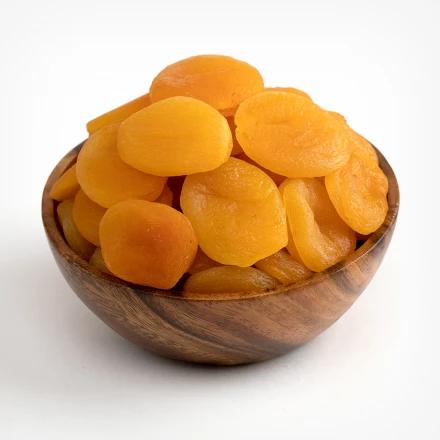
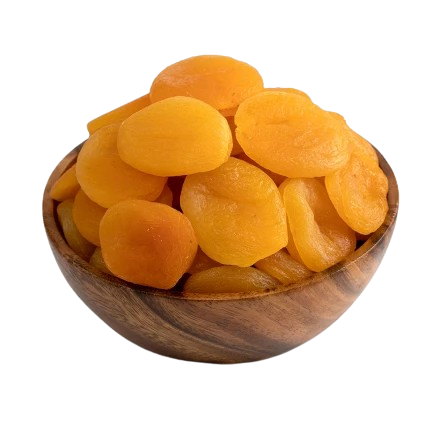
wotk

diff --git a/src/translations.js b/src/translations.js
@@ -32,26 +32,22 @@ export const translations = {
     badge2: "مشمس",
     badge3: "صندوق 12.5 كغ",
     productTitles: [
-      // "عنب أصفر",
-      // "جوز",
-      // "فول سوداني",
-      // "فاصوليا",
-      // "فاصوليا حمراء",
-      // "ماش",
-      // "برقوق مجفف",
-      // "فاصوليا",
-      // "حبة البركة",
-      "حبة البركة",
-      "حبة البركة",
-      "حبة البركة",
+      "زبيب أصفر",
+      "زبيب مشكل",
+      "زبيب أسود",
       "نوى المشمش",
-      "قمر الدين",
-      'مشمش مجفف',
-      'مشمش مجفف أصفر',
-      'مشمش مجفف أحمر',
-      'مشمش مجفف كبير',
-      'مشمش مجفف داكن',
-      'مشمش مجفف داكن'
+      "زبيب ذهبي",
+      "زبيب أسود كبير",
+      "حبة البركة",
+      "حبة البركة",
+      "مشمش مجفف كبير",
+      "مشمش مجفف أصفر",
+      "مشمش مجفف داكن",
+      "مشمش مجفف فاتح",
+      "قمر الدين (مشمش مجفف بالنواة)",
+      "مشمش مجفف بالنواة",
+      "مشمش مجفف أسود",
+      "مشمش مجفف أسود",
     ],
 
     // 🔥 Qo‘shimcha tarjimalar
@@ -112,26 +108,22 @@ export const translations = {
     badge2: "Sunny",
     badge3: "Box 12.5 kg",
     productTitles: [
-      // "Yellow grapes",
-      // "Walnut",
-      // "Peanut",
-      // "Bean",
-      // "Red bean",
-      // "Mung bean",
-      // "Dried plum",
-      // "Bean",
-      // "Black cumin",
-      "Black cumin",
-      "Black cumin",
-      "Black cumin",
+      "Yellow raisins",
+      "Mixed raisins",
+      "Black raisins",
       "Apricot kernels",
-      "Dried apricot",
-      'Dried apricot',
-      'Yellow dried apricot',
-      'Red dried apricot',
-      'Large dried apricot',
-      'Yellow dried apricot',
-      'Dark dried apricot',
+      "Golden raisins",
+      "Large black raisins",
+      "Black cumin",
+      "Black cumin",
+      "Large dried apricot",
+      "Yellow dried apricot",
+      "Dark dried apricot",
+      "Light dried apricot",
+      "Uryuk (dried apricot with pit)",
+      "Dried uryuk",
+      "Black dried apricot",
+      "Black dried apricot",
     ],
 
     // 🔥 Extra
@@ -193,26 +185,22 @@ export const translations = {
     badge2: "Quyoshli",
     badge3: "12,5 kg quti",
     productTitles: [
-      // "Sariq uzum",
-      // "Yong‘oq",
-      // "Yer yong‘oq",
-      // "Fasol",
-      // "Qizil fasol",
-      // "Mash",
-      // "Quritilgan olxo‘ri",
-      // "Fasol",
-      // "Qora sedana",
-      "Qora sedana",
-      "Qora sedana",
-      "Qora sedana",
+      "Sariq mayiz",
+      "Aralash mayiz",
+      "Qora mayiz",
       "O‘rik danagi",
-      "Quritilgan o‘rik",
-      'Quritilgan o‘rik',
-      'Sariq quritilgan o‘rik',
-      'Qizil quritilgan o‘rik',
-      'Yirik quritilgan o‘rik',
-      'Sariq quritilgan o‘rik',
-      'Qoraygan quritilgan o‘rik',
+      "Oltin mayiz",
+      "Yirik qora mayiz",
+      "Qora sedana",
+      "Qora sedana",
+      "Yirik quritilgan o‘rik",
+      "Sariq quritilgan o‘rik",
+      "To‘q rangli quritilgan o‘rik",
+      "Och rangli quritilgan o‘rik",
+      "Uryuk (danakli o‘rik)",
+      "Quritilgan uryuk",
+      "Qora quritilgan o‘rik",
+      "Qora quritilgan o‘rik",
     ],
 
     // 🔥 Extra
@@ -274,26 +262,22 @@ export const translations = {
     badge2: "Солнечная",
     badge3: "Коробка 12,5 кг",
     productTitles: [
-      // "Жёлтый виноград",
-      // "Грецкий орех",
-      // "Арахис",
-      // "Фасоль",
-      // "Красная фасоль",
-      // "Маш",
-      // "Сушёная слива",
-      // "Фасоль",
-      // "Чёрный тмин",
+      "Изюм жёлтый",
+      "Изюм микс",
+      "Изюм чёрный",
+      "Косточки абрикоса",
+      "Изюм золотистый",
+      "Изюм чёрный крупный",
       "Чёрный тмин",
       "Чёрный тмин",
-      "Чёрный тмин",
-      "Абрикосовые косточки",
-      "Курага",
-      'Сушёный абрикос',
-      'Жёлтый сушёный абрикос',
-      'Красный сушёный абрикос',
-      'Крупный сушёный абрикос',
-      'Жёлтый сушёный абрикос',
-      'Тёмный сушёный абрикос',
+      "Курага крупная",
+      "Курага жёлтая",
+      "Курага тёмная",
+      "Курага светлая",
+      "Урюк",
+      "Урюк сушёный",
+      "Курага чёрная",
+      "Курага чёрная",
     ],
 
     // 🔥 Extra

diff --git a/src/App.jsx b/src/App.jsx
@@ -9,26 +9,22 @@ import { BsArrowUpRight, BsBoxFill } from "react-icons/bs";
 
 
 const images = [
-  { img: "/img/arr1.jpg", title: "Жёлтый виноград" },
-  { img: "/img/arr2.jfif", title: "Грецкий орех" },
-  { img: "/img/arr3.jfif", title: "Арахис" },
-  { img: "/img/arr4.jfif", title: "Фасоль" },
-  { img: "/img/arr5.jfif", title: "Красная фасоль" },
-  // { img: "/img/arr6.png", title: "Маш" },
-  // { img: "/img/arr7.png", title: "Сушёная слива" },
-  // { img: "/img/arr8.png", title: "Фасоль" },
-  // { img: "/img/arr9.png", title: "Чёрный тмин" },
-  { img: "/img/arr10.png", title: "Чёрный тмин" },
+  { img: "/img/arr1.png", title: "Изюм жёлтый" },
+  { img: "/img/arr2.png", title: "Изюм микс" },
+  { img: "/img/arr3.png", title: "Изюм чёрный" },
+  { img: "/img/arr4.png", title: "Косточки абрикоса" },
+  { img: "/img/arr5.png", title: "Изюм золотистый" },
+  { img: "/img/arr10.png", title: "Изюм чёрный крупный" },
   { img: "/img/arr11.png", title: "Чёрный тмин" },
   { img: "/img/arr12.png", title: "Чёрный тмин" },
-  { img: "/img/arr15.png", title: "Абрикосовые косточки" },
-  { img: "/img/arr16.png", title: "Сушёный абрикос" },
-  { img: "/img/arr17.jpg", title: "Красный сушёный абрикос" },
-  { img: "/img/arr18.jpg", title: "Жёлтый сушёный абрикос" },
-  { img: "/img/arr19.jpg", title: "Курага" },
-  { img: "/img/arr20.jpg", title: "Курага" },
-  { img: "/img/arr21.jpg", title: "Курага" },
-  { img: "/img/arr22.webp", title: "Курага" },
+  { img: "/img/arr15.png", title: "Курага крупная" },
+  { img: "/img/arr16.png", title: "Курага жёлтая" },
+  { img: "/img/arr17.png", title: "Курага тёмная" },
+  { img: "/img/arr18.png", title: "Курага светлая" },
+  { img: "/img/arr19.png", title: "Урюк" },
+  { img: "/img/arr20.png", title: "Урюк сушёный" },
+  { img: "/img/arr21.png", title: "Курага чёрная" },
+  { img: "/img/arr22.png", title: "Курага чёрная" },
 ];
 
 function App() {
@@ -413,7 +409,7 @@ function App() {
                     <img
                       src={item.img}
                       alt={t.productTitles[index]}
-                      className="w-full h-20 lg:h-32 object-contain mb-4 scale-115  group-hover:scale-120 duration-300 ease-in-out"
+                      className="w-full h-50 object-contain mb-4"
                     />
                     <div className="flex flex-col p-1 sm:p-3">
                       <h2 className="text-[12px] sm:text-sm md:text-lg font-semibold text-[#A77B78] mt-3">
@@ -670,13 +666,11 @@ function App() {
                     className="relative cursor-pointer"
                     onClick={() => setPlay2(true)}
                   >
-                    {/* Videoning birinchi kadri preview sifatida */}
-                    <video
-                      src="/kattavideo.MOV"
+                    {/* Rasm preview sifatida */}
+                    <img
+                      src="/kattaimg.png" // bu yerda videoga mos rasmni qo'y
+                      alt="Video preview"
                       className="w-full h-80 md:h-90 lg:h-120 object-cover rounded-2xl"
-                      muted
-                      preload="metadata"
-                      playsInline
                     />
 
                     {/* Play tugmasi */}
@@ -698,6 +692,7 @@ function App() {
                   </video>
                 )}
               </div>
+
 
 
             </section>
